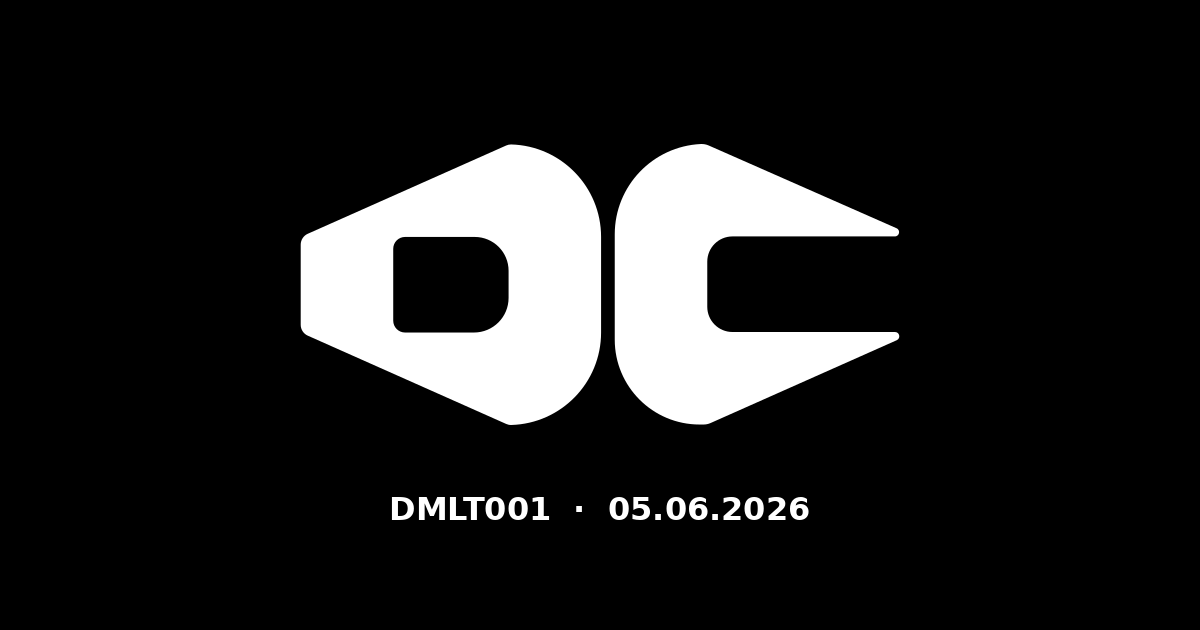
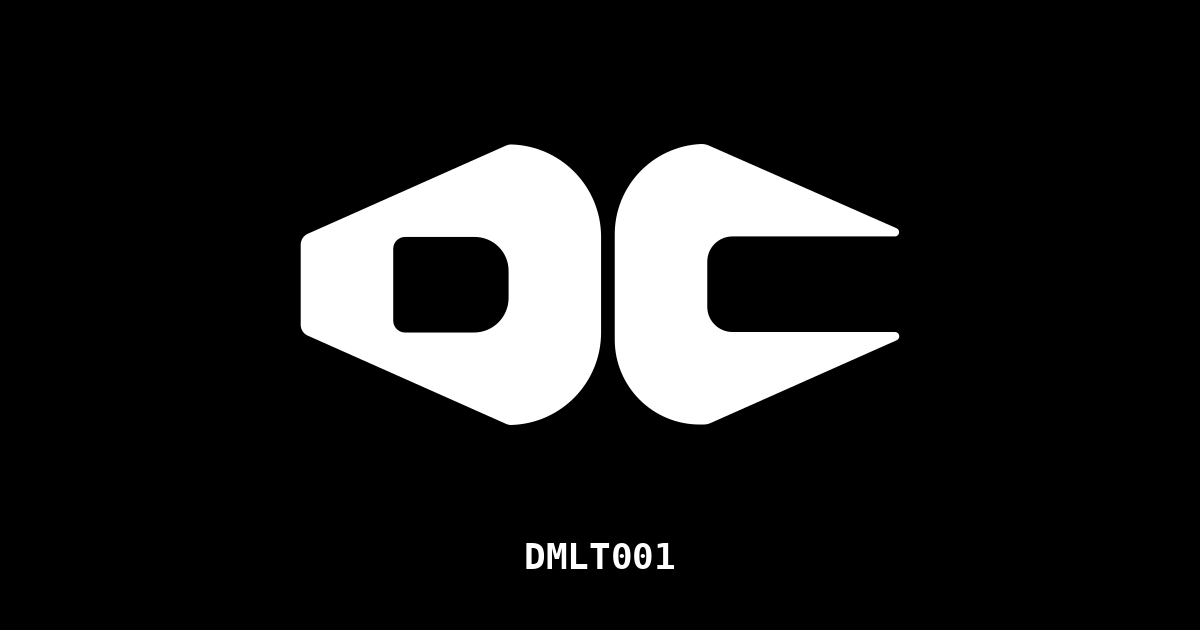
fix: remove release date, link DMLT001 to releasr, update og-image

Changed region(s): [[0.3083, 0.7841, 0.6783, 0.9048]]

diff --git a/index.html b/index.html
@@ -86,7 +86,7 @@
 <body>
   <canvas id="stage"></canvas>
 
-  <div class="meta meta--left">DMLT001 · 19.06.2026</div>
+  <div class="meta meta--left"><a href="https://demolate.releasr.link/5-year-compilation-pt-1" target="_blank" rel="noopener">DMLT001</a></div>
   <div class="meta meta--right">
     <a href="https://www.instagram.com/demolate.records/" target="_blank" rel="noopener" aria-label="Instagram">IG</a>
     <a href="https://demolaterecords.bandcamp.com/" target="_blank" rel="noopener" aria-label="Bandcamp">BC</a>
